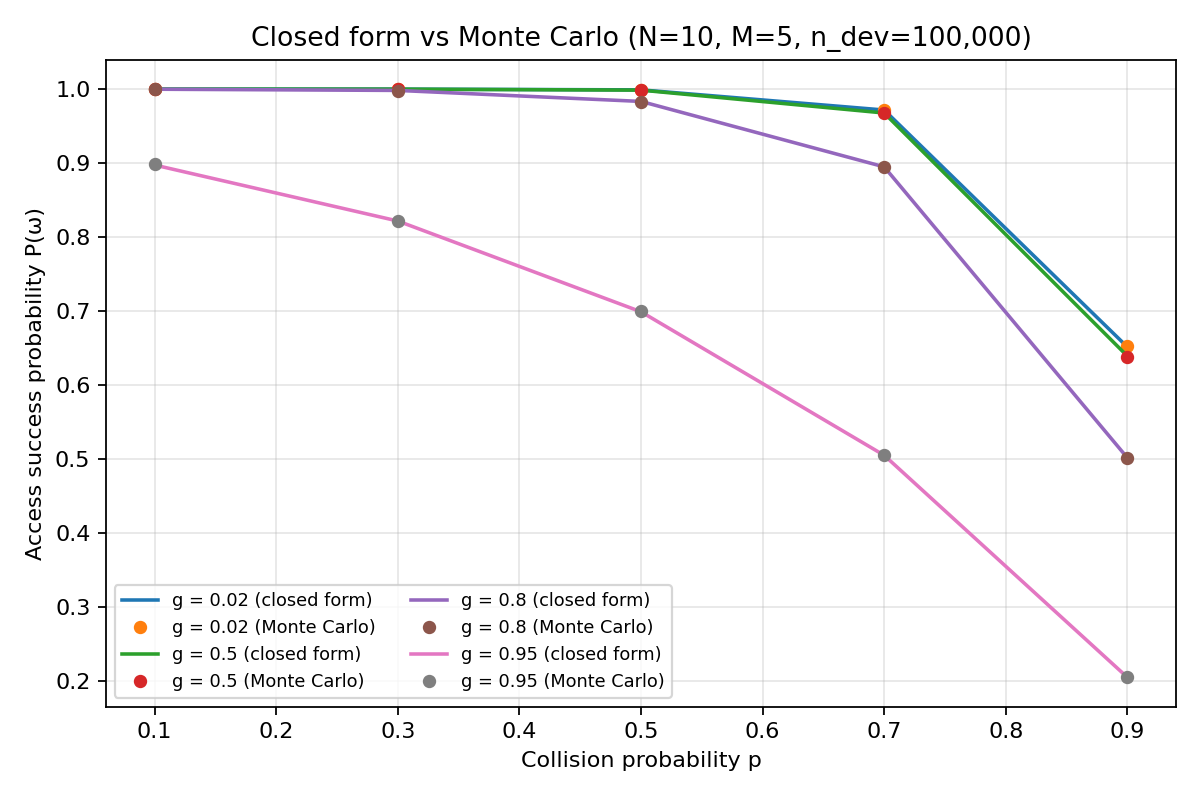
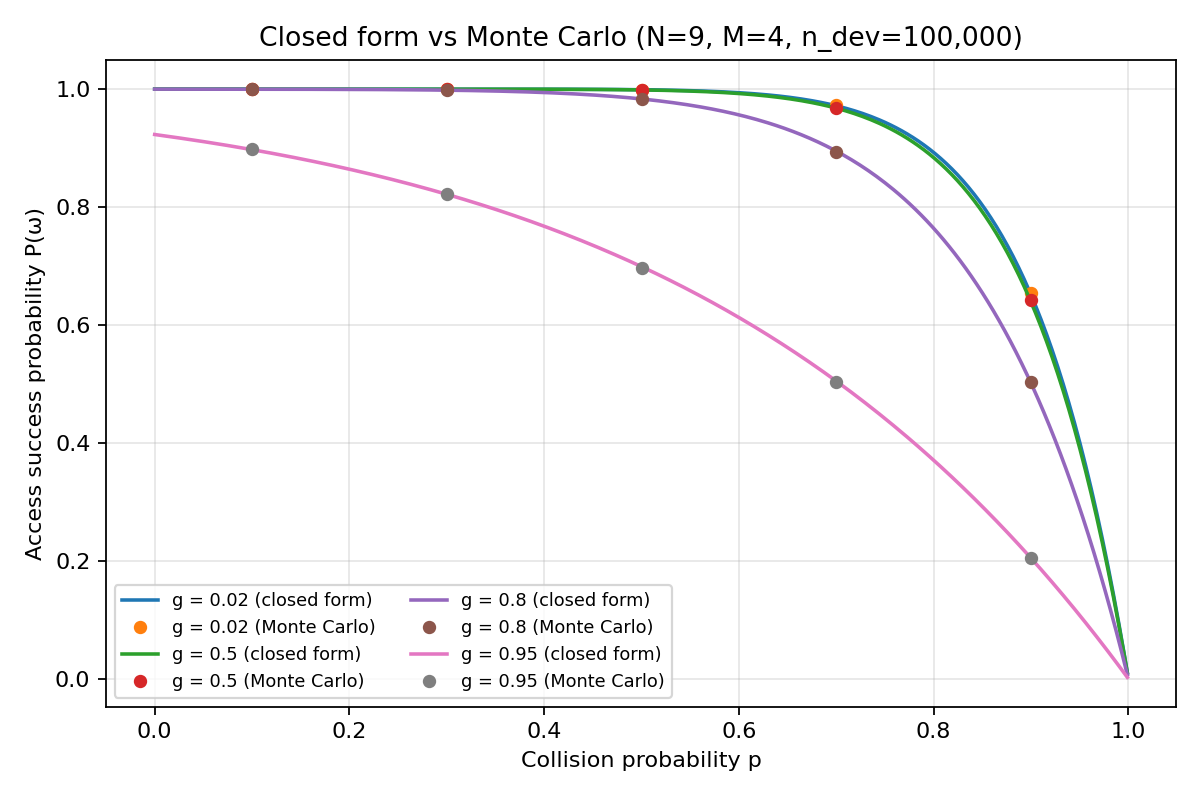
fix(model): charge (M+1)*d4 for exhausted Msg3 chains; pub-style plots
D_closed t3: M*d4 -> (M+1)*d4 per TS 36.321; closed form on 200-point dense grid; MC squares at p=0.1..0.9; titles use N=9, M=4; regenerated figures

diff --git a/Mission1/cakeisalie_simulation_cakeisalie_reporduce_RACH_baselinemodel_ccis2016.py b/Mission1/cakeisalie_simulation_cakeisalie_reporduce_RACH_baselinemodel_ccis2016.py
@@ -112,7 +112,7 @@ def D_closed(p: float, g: float, N: int = 9, M: int = 4,
     f = 1.0 - (N + 1) * C ** N + N * C ** (N + 1)
     t1 = (d1 + d2) * C / ((1.0 - p) * (1.0 - g ** (M + 1))) * f
     t2 = d4 * (1.0 - (M + 1) * g ** M + M * g ** (M + 1)) / (1.0 - g) * (g * (1.0 - C ** (N + 1)) / (1.0 - g ** (M + 1)))
-    t3 = (d3 + M * d4 - d2) * (g ** (M + 1) / (1.0 - g ** (M + 1))) * f
+    t3 = (d3 + (M+1) * d4 - d2) * (g ** (M + 1) / (1.0 - g ** (M + 1))) * f
     t4 = (d1 + d3 + d4) * (1.0 - C ** (N + 1))
     return (t1 + t2 + t3 + t4) / P_omega(p, g)
 
@@ -137,7 +137,12 @@ def main() -> None:
     theory_d = numpy.zeros((len(GS), len(PS)))
     sim_d = numpy.zeros_like(theory_d)
     t0 = time.time()
-    
+
+    p_dense = numpy.linspace(0.0, 0.999, 350)
+    theory_dense = numpy.array([[P_omega(pi, g) for pi in p_dense] for g in GS])
+    theory_d_dense = numpy.array([[D_closed(pi, g, N, M, d1, d2, d3, d4)
+                                   for pi in p_dense] for g in GS])
+
     for i, g in enumerate(GS):
         for j, p in enumerate(PS):
             theory[i, j] = P_omega(p, g)
@@ -149,9 +154,9 @@ def main() -> None:
             sigma = mc_sigma(theory[i, j], number_devices)
             ok = "sigma Accepet" if abs(theory[i, j] - sim[i, j]) <= 3 * sigma else "sigma Alert"
             print(f"p={p}, g={g}: P theory={theory[i,j]:.4f} MC={sim[i,j]:.4f} "
-                  f"|dP|={abs(theory[i,j]-sim[i,j]):.5f} | "
+                  f"|dD|={abs(theory[i,j]-sim[i,j]):.2f} | "
                   f"D theory={theory_d[i,j]:.1f} MC={sim_d[i,j]:.1f} ms"
-                  f"|dP|={abs(theory[i,j]-sim[i,j]):.5f} 3σ={3*sigma:.5f} {ok}")
+                  f"|dP|={abs(theory[i,j]-sim[i,j]):.4f} 3σ={3*sigma:.5f} {ok}")
     print(f"grid sweep finished in {time.time() - t0:.1f}s")
 
     #draw curve plot
@@ -161,12 +166,13 @@ def main() -> None:
 
     fig, ax = plt.subplots(figsize=(7.5, 5))
     for i, g in enumerate(GS):
-        ax.plot(PS, theory[i], "-", lw=1.6, label=f"g = {g} (closed form)")
+        #ax.plot(PS, theory[i], "-", lw=1.6, label=f"g = {g} (closed form)")
+        ax.plot(p_dense, theory_dense[i], "-", lw=1.6, label=f"g = {g} (closed form)")
         ax.plot(PS, sim[i], "o", ms=5, label=f"g = {g} (Monte Carlo)")
 
     ax.set_xlabel("Collision probability p")
     ax.set_ylabel("Access success probability P(ω)")
-    ax.set_title(f"Closed form vs Monte Carlo (N={N+1}, M={M+1}, "
+    ax.set_title(f"Closed form vs Monte Carlo (N={N}, M={M}, "
                  f"n_dev={number_devices:,})")
     
     ax.grid(alpha=0.3)
@@ -178,12 +184,13 @@ def main() -> None:
     #average access delay curves (Fig. 5 style)
     fig, ax = plt.subplots(figsize=(7.5, 5))
     for i, g in enumerate(GS):
-        ax.plot(PS, theory_d[i], "-", lw=1.6, label=f"g = {g} (closed form)")
+        #ax.plot(PS, theory_d[i], "-", lw=1.6, label=f"g = {g} (closed form)")
+        ax.plot(p_dense, theory_d_dense[i], "-", lw=1.6, label=f"g = {g} (closed form)")
         ax.plot(PS, sim_d[i], "s", ms=5, label=f"g = {g} (Monte Carlo)")
     ax.set_xlabel("Collision probability p")
     ax.set_ylabel("Average access delay D, ms")
     ax.set_title(f"Average access delay: closed form vs Monte Carlo "
-                 f"(N={N+1}, M={M+1}, n_dev={number_devices:,})")
+                 f"(N={N}, M={M}, n_dev={number_devices:,})")
     ax.grid(alpha=0.3)
     ax.legend(fontsize=8, ncol=2)
     fig.tight_layout()
@@ -195,4 +202,3 @@ def main() -> None:
 # main() 保护
 if __name__ == "__main__":
     main()
-
